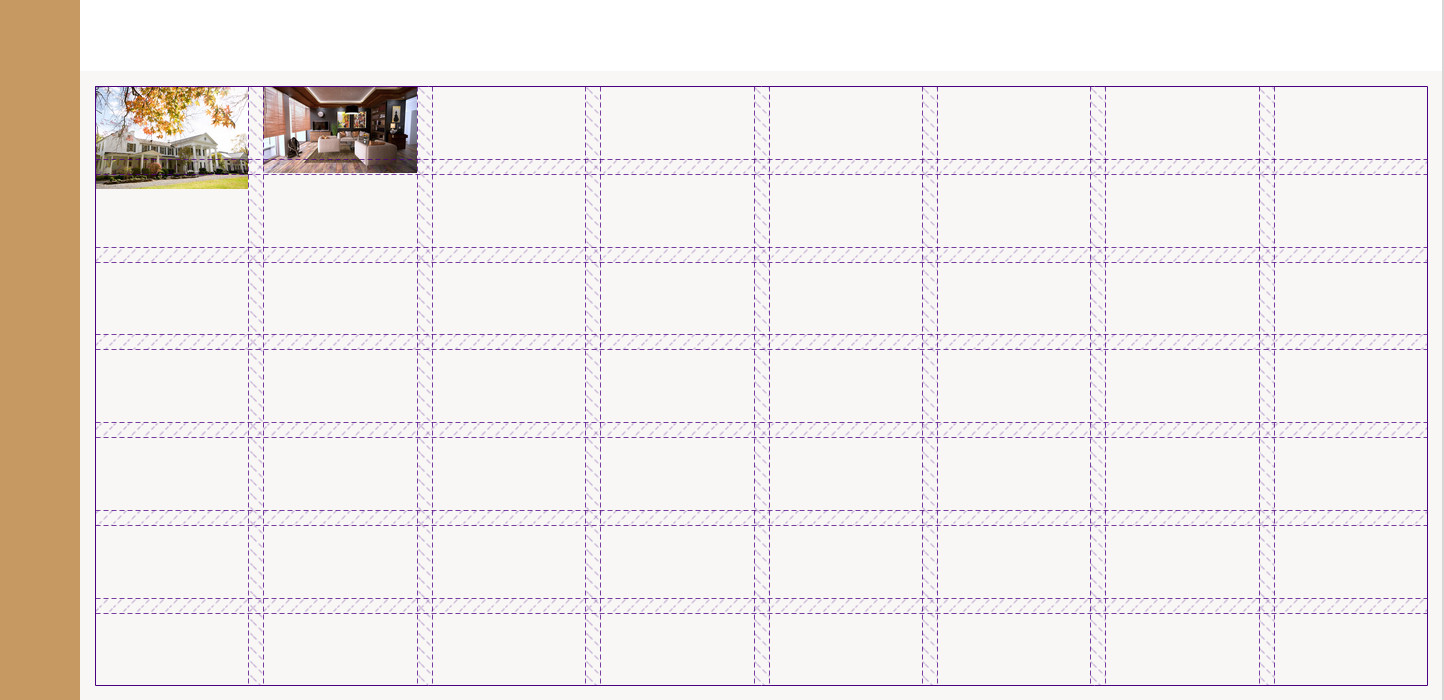
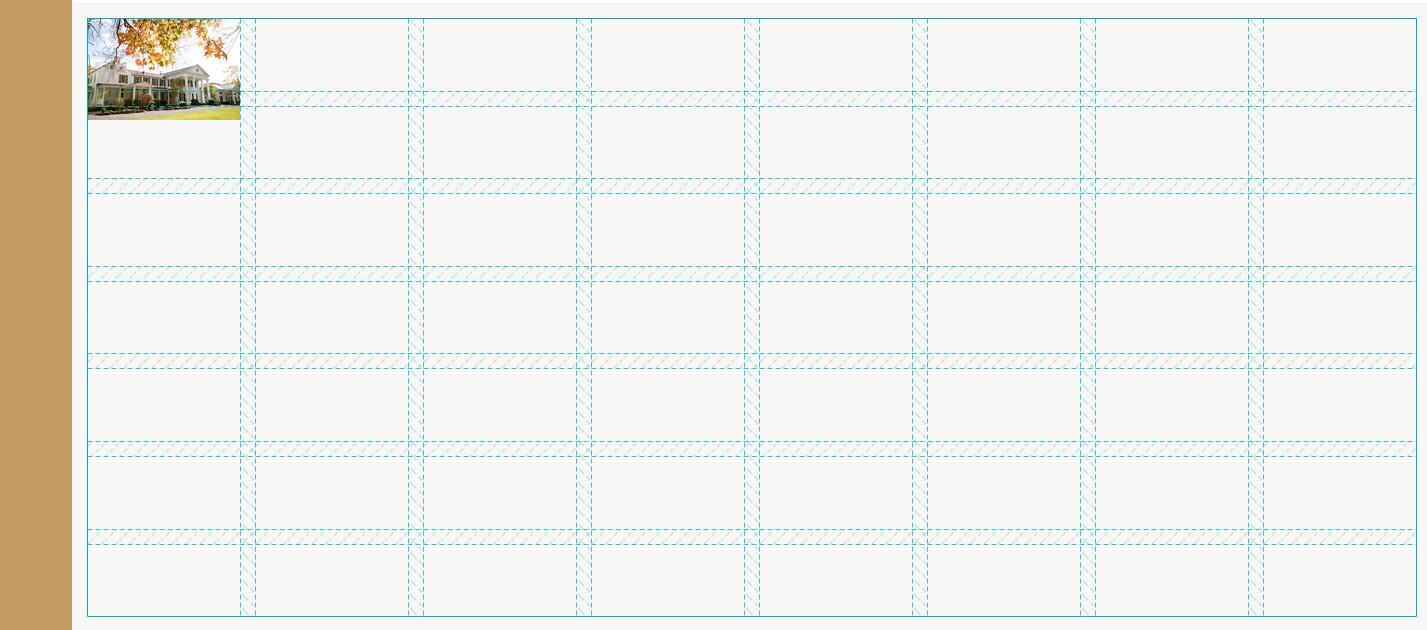
Encapsulate the image in a figure element. Image still overflow the grid cell so we have the same situation as before.

Changed region(s): [[0.0308, 0.0, 1.0, 1.0]]

diff --git a/index.html b/index.html
@@ -312,8 +312,9 @@
         </div>
       </section>
       <section class="gallery">
-        <img src="img/gal-1.jpeg" alt="Gallery Image 1" class="gallery__img">
-        <img src="img/gal-2.jpeg" alt="Gallery Image 2" class="gallery__img">
+        <figure class="gallery__item gallery__item--1">
+          <img src="img/gal-1.jpeg" alt="Gallery Image 1" class="gallery__img">
+        </figure>
       </section>
       
       <footer class="footer">Footer</footer>

diff --git a/sass/_gallery.scss b/sass/_gallery.scss
@@ -8,7 +8,12 @@
   grid-gap: 1.5rem;
   padding: 1.5rem;
   
-  & > * {
+  &__item {
+    
+  }
+  
+  &__img {
     width: 100%;
   }
+  
 }
